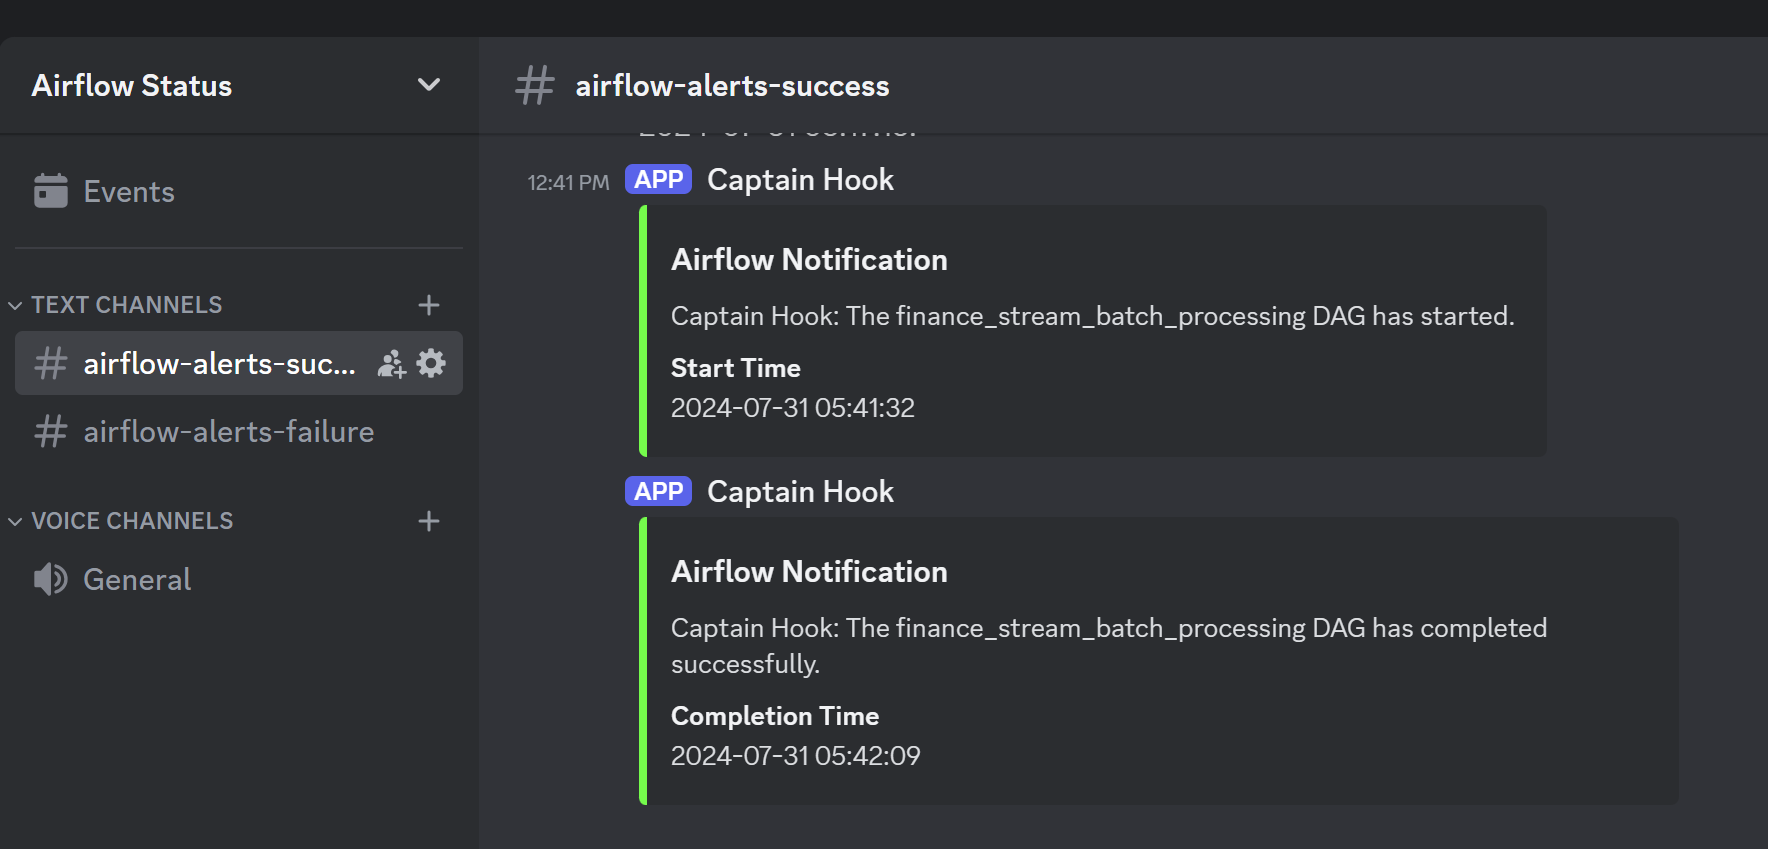
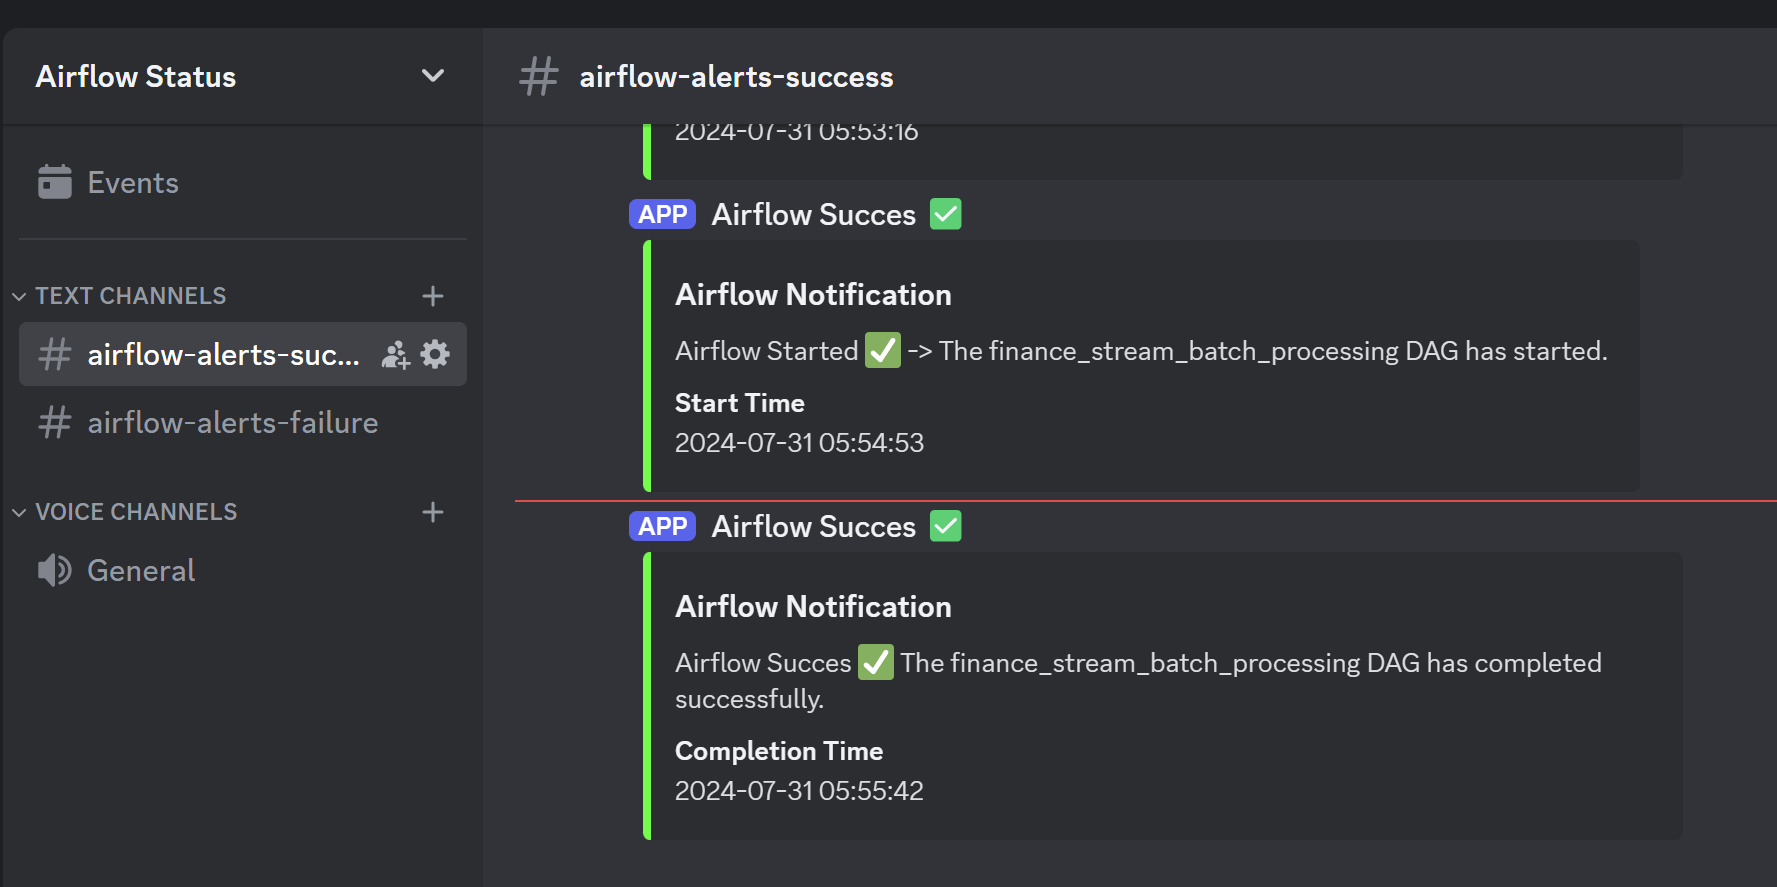
feat: updating discord webhook integration

diff --git a/dags/load_data.py b/dags/load_data.py
@@ -32,7 +32,7 @@ def send_discord_embed(title: str, description: str, color: str, fields: dict, w
 def send_start_notification():
     webhook_url = Variable.get("DISCORD_SUCCESS_WEBHOOK_URL")
     title = "Airflow Notification"
-    description = "Captain Hook: The finance_stream_batch_processing DAG has started."
+    description = "Airflow Started ✅ -> The finance_stream_batch_processing DAG has started."
     fields = {
         "Start Time": datetime.now().strftime("%Y-%m-%d %H:%M:%S")
     }
@@ -42,7 +42,7 @@ def send_start_notification():
 def send_success_notification():
     webhook_url = Variable.get("DISCORD_SUCCESS_WEBHOOK_URL")
     title = "Airflow Notification"
-    description = "Captain Hook: The finance_stream_batch_processing DAG has completed successfully."
+    description = "Airflow Succes ✅ The finance_stream_batch_processing DAG has completed successfully."
     fields = {
         "Completion Time": datetime.now().strftime("%Y-%m-%d %H:%M:%S")
     }
@@ -64,7 +64,7 @@ def send_failure_notification(context):
         error_message = "Some error that cannot be extracted has occurred. Visit the logs!"
 
     title = "Airflow Alert - Task has failed!"
-    description = "Captain Hook: The finance_stream_batch_processing DAG has failed."
+    description = "Airflow Failure ⛔ _>The finance_stream_batch_processing DAG has failed."
     fields = {
         "DAG": dag_name,
         "Task": task_name,
